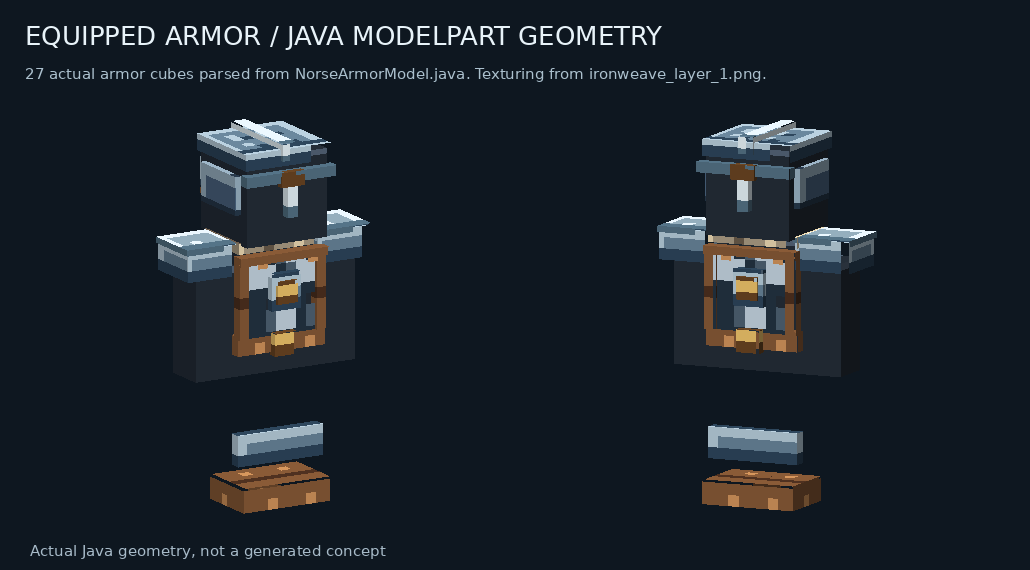
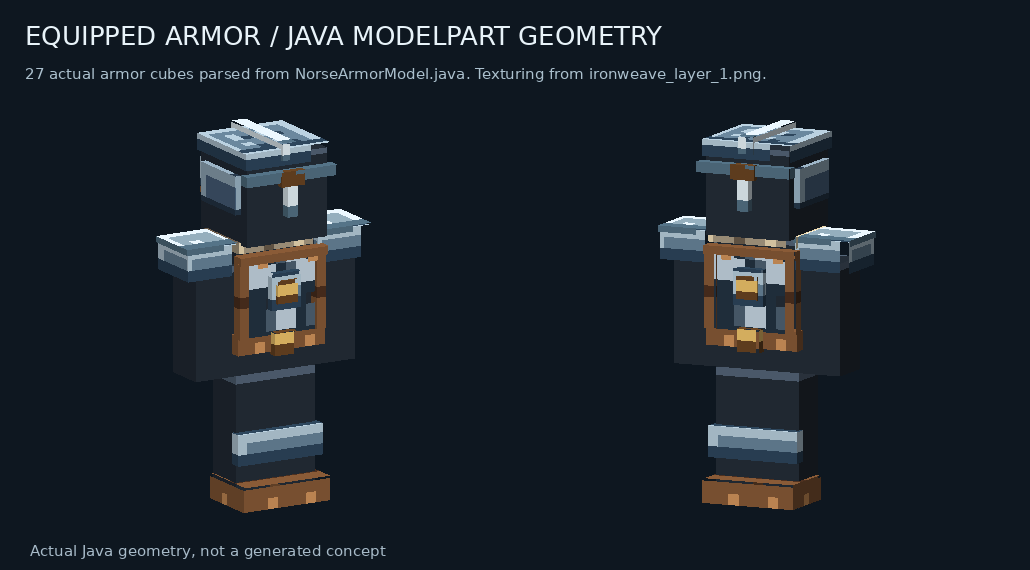
chore(norsegear): complete armor preview mannequin geometry and source renderer

diff --git a/projects/norsegear/tools/render_showcase031.py b/projects/norsegear/tools/render_showcase031.py
@@ -131,8 +131,10 @@ def load_equipped_armor_from_java():
     box_from('mannequin-torso',[4,3,6],[12,15,10])
     box_from('mannequin-left-arm',[12,3,6],[16,13,10])
     box_from('mannequin-right-arm',[0,3,6],[4,13,10])
+    box_from('mannequin-left-leg',[8,-9,6],[12,3,10])
+    box_from('mannequin-right-leg',[4,-9,6],[8,3,10])
     assert len(els)>25,('Java armor parsing failed',len(els))
-    return {'elements':els},np.array(armor),len(els)-4
+    return {'elements':els},np.array(armor),len(els)-6
 
 if __name__=='__main__':
  canvas=Image.new('RGBA',(1450,1140),'#0e1720')
